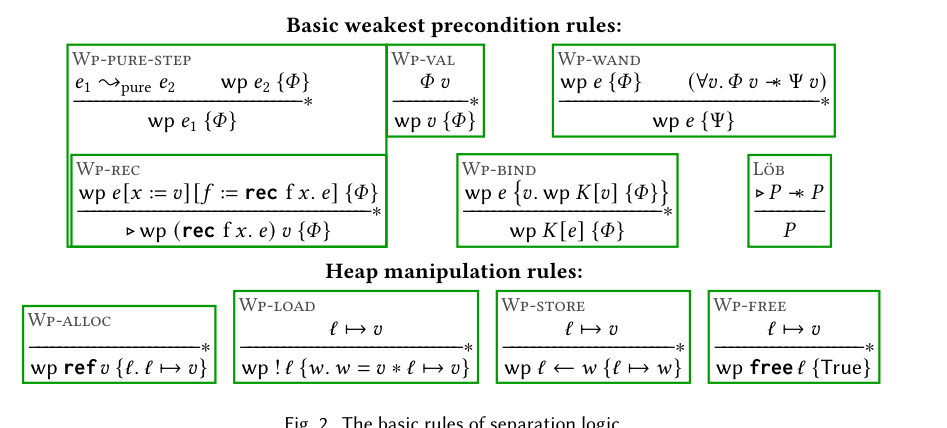
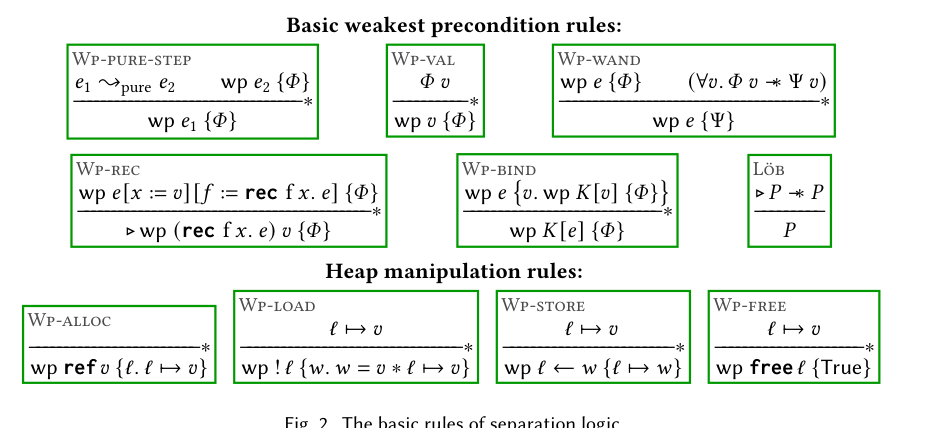
Named rules: a text bar's digits may sit anywhere on it
Iris numbers a premise's place with a digit on the bar ("−−1−−−−2−−∗"),
and the bar test wanted four dashes before the first digit, so
Wp-pure-step had no bar of its own and took Wp-rec's, its box running
over both rules. A bar is now any run of dashes and digits, four dashes
among them, opening with a dash.

Claude-Session: https://claude.ai/code/session_01Bj1FLEH6VvGcCeH5dzwnRH

Changed region(s): [[0.0612, 0.1215, 0.3369, 0.5771], [0.3369, 0.0911, 0.3981, 0.1215]]

diff --git a/analyzer/src/rules/inference.ts b/analyzer/src/rules/inference.ts
@@ -720,10 +720,11 @@ function citedAnywhere(flows: Flow[], rule: { name: string; shape: Shape; bracke
 // its end as Iris draws its rules (rule.bar).
 // Two such bars on one baseline reach the layout as one line ("−−−∗ −−−∗")
 // and are two bars, split at the blank between them.
-const TEXT_BAR = /^[−–—\-]{4,}(?:\d[−–—\-]+)*∗?$/;
+const TEXT_BAR = /^[−–—\-][−–—\-\d]*∗?$/;
+const textBar = (part: string) => TEXT_BAR.test(part) && part.replace(/[^−–—\-]/g, "").length >= 4;
 const textBars = (page: Page): Drawn[] => page.lines.flatMap((l) => {
   const parts = l.text.split(/\s+/).filter(Boolean);
-  if (!parts.length || !parts.every((p) => TEXT_BAR.test(p))) return [];
+  if (!parts.length || !parts.every(textBar)) return [];
   const bars: Drawn[] = [];
   for (const m of l.text.matchAll(/\S+/g)) {
     const x0 = edgesOf(l, m.index!)?.[0] ?? l.x0, x1 = edgesOf(l, m.index! + m[0].length - 1)?.[1] ?? l.x1;
